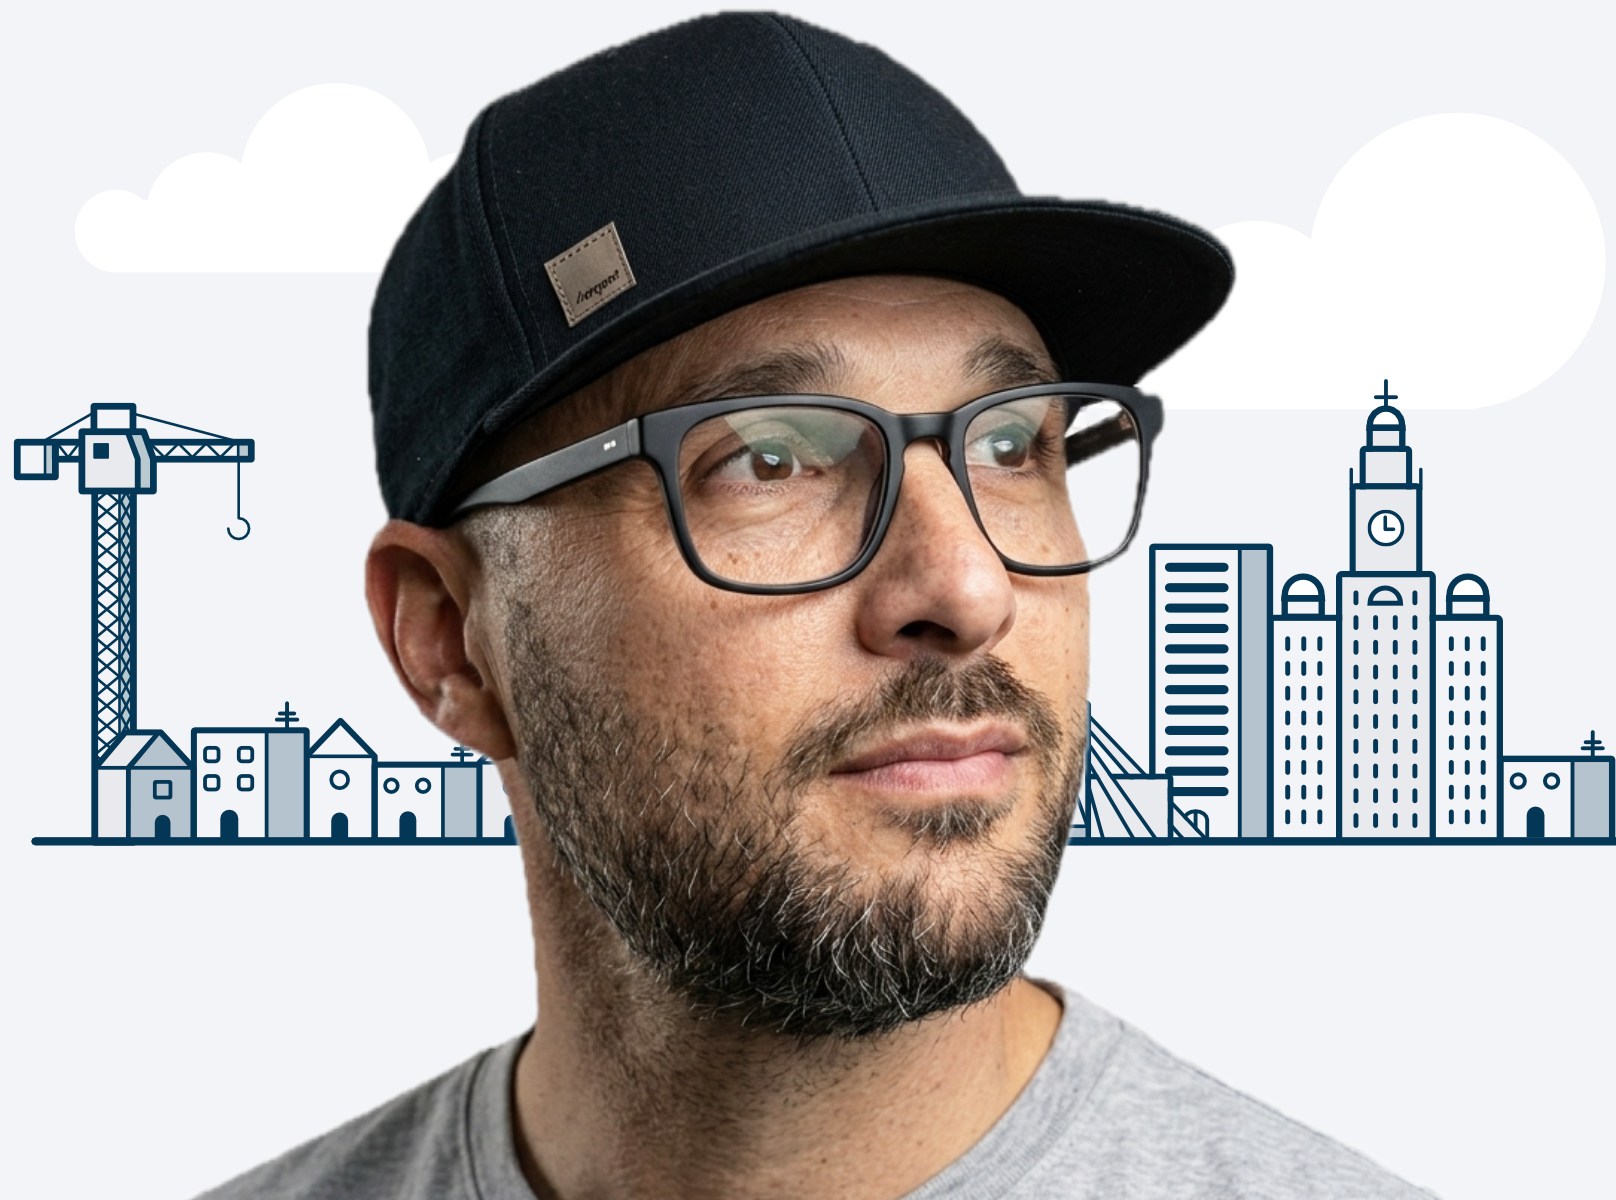
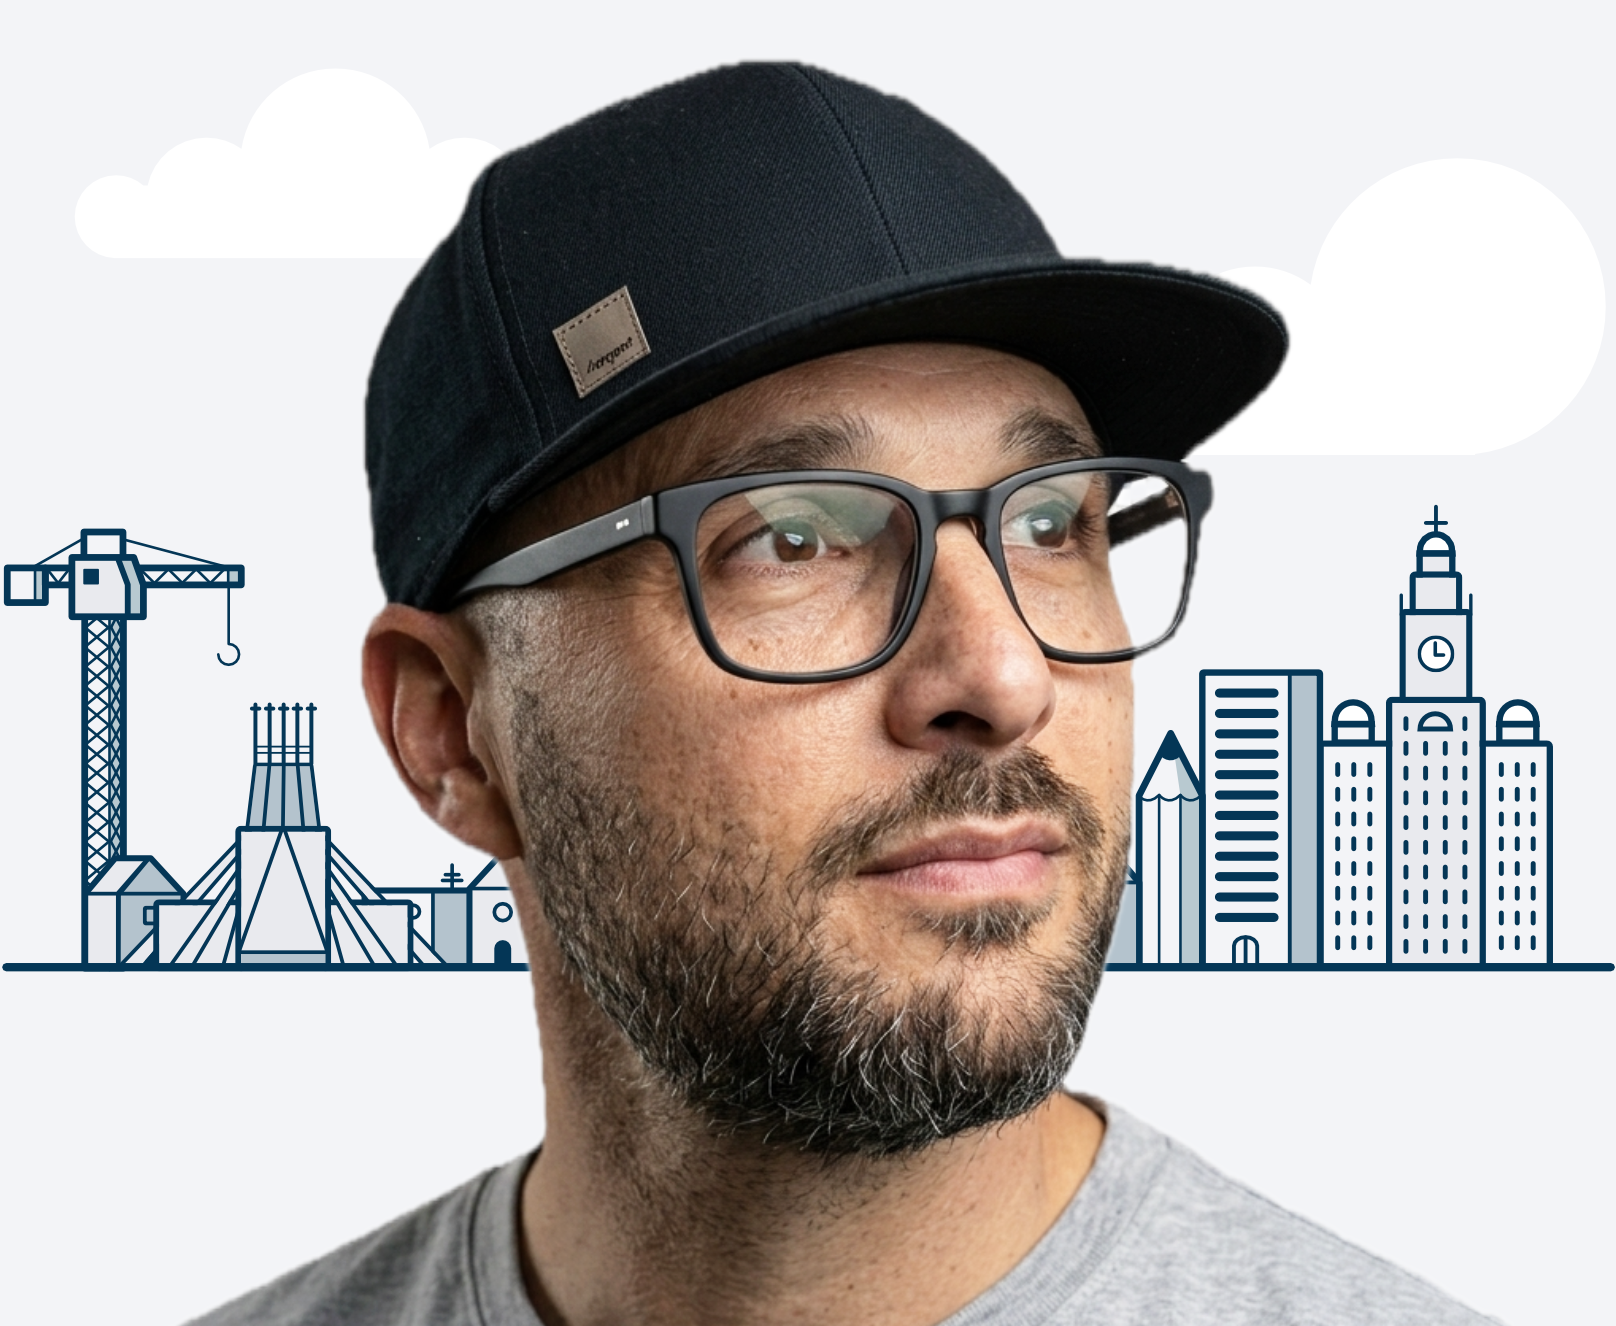
my pic

diff --git a/index.html b/index.html
@@ -46,7 +46,7 @@
           <h2 class="promo__title">View selected work from my 20+ years as a Lead Designer</h2>
           <span class="promo__link">View portfolio</span>
         </div>
-        <div class="promo__media">
+        <div class="promo__media me">
           <img class="promo__image" src="images/portfolio.png" alt="">
         </div>
         </div>

diff --git a/styles.css b/styles.css
@@ -287,6 +287,9 @@ img { display: block; max-width: 100%; }
 
     justify-content: center;
 }
+.promo__media.me {
+    margin-bottom:0;
+}
 
 .promo__image {
   object-fit: cover;
